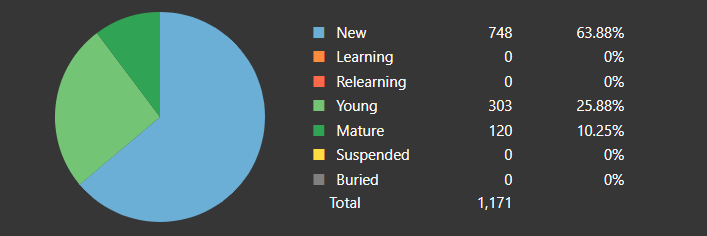
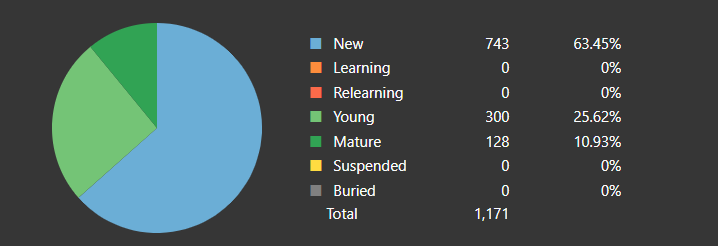
Deployed 3bc86f9 with MkDocs version: 1.5.3

diff --git a/index.html b/index.html
@@ -1404,7 +1404,7 @@
 <p><strong>Updated Every Day</strong></p>
 </div>
 <h2 id="card-counts">Card Counts<a class="headerlink" href="#card-counts" title="Permanent link">&para;</a></h2>
-<p>As of <strong><em>10/07/2023</em></strong> <code>423 Vocabulary words known</code></p>
+<p>As of <strong><em>10/08/2023</em></strong> <code>428 Vocabulary words known</code></p>
 <p><img align="center" alt="Card Counts" src="assets/anki-stats/card-counts.png" /></p>
 <h2 id="things-i-need-to-work-on-currently">Things I need to work on currently<a class="headerlink" href="#things-i-need-to-work-on-currently" title="Permanent link">&para;</a></h2>
 <p>Just learned:</p>
